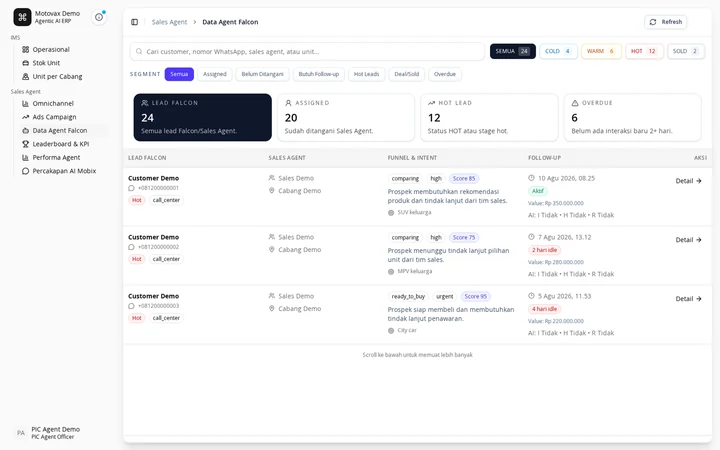
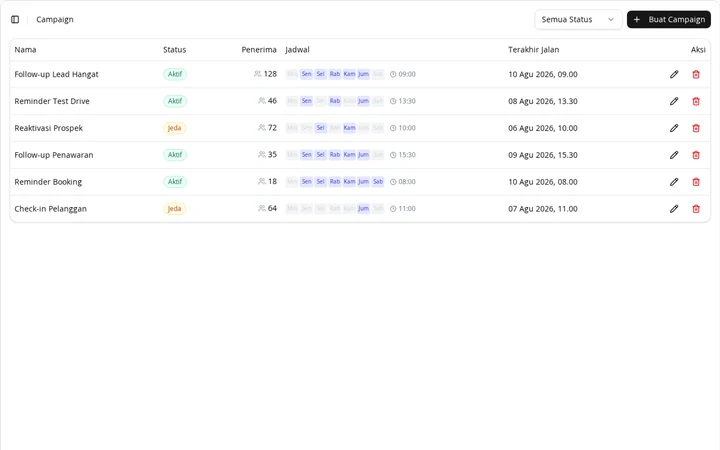
fix: gunakan halaman Campaign untuk fitur follow-up

diff --git a/fitur/feature-page.js b/fitur/feature-page.js
@@ -668,9 +668,9 @@
       );
     } else if (slug === "automasi-workflow" && index === 1) {
       preview = captured(
-        "workflow-auto-follow-public.png?v=20260810-workflow-sidebar-1",
-        "Sales Agent · Auto Follow",
-        "Lead aktif, butuh follow-up, dan overdue terlihat bersama interaksi terakhir agar peluang berikutnya mudah diprioritaskan.",
+        "workflow-auto-follow-public.png?v=20260810-workflow-campaign-1",
+        "Autopilot CRM · Campaign",
+        "Campaign follow-up memperlihatkan status, penerima, jadwal aktif, dan waktu eksekusi terakhir dalam satu halaman.",
       );
     } else if (slug === "automasi-workflow" && index === 2) {
       preview = captured(

diff --git a/fitur/automasi-workflow.html b/fitur/automasi-workflow.html
@@ -66,7 +66,7 @@
 
     <script>window.__FEATURE_SLUG__ = "automasi-workflow";</script>
     <script src="./features-data.js?v=20260810-workflow-3"></script>
-    <script src="./feature-page.js?v=20260810-workflow-sidebar-1"></script>
+    <script src="./feature-page.js?v=20260810-workflow-campaign-1"></script>
     <script src="../script.js?v=20260806-2"></script>
   </body>
 </html>
